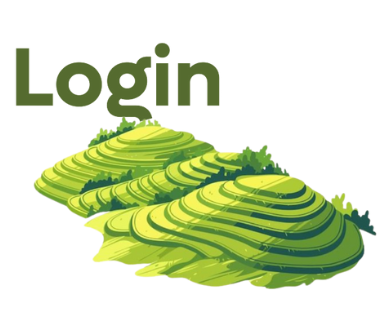
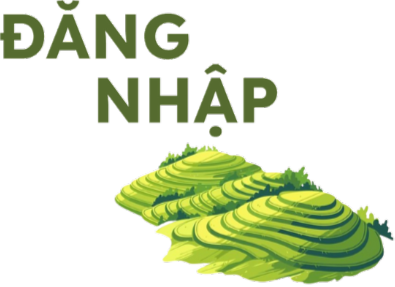
đẳng cấp

diff --git a/frontend/src/pages/Profile.jsx b/frontend/src/pages/Profile.jsx
@@ -2,6 +2,7 @@ import { useEffect, useState } from 'react'
 import { useNavigate } from 'react-router-dom'
 import { getProfile } from '../api/profile' 
 import BadgeCard from '../components/BadgeCard'
+import { baseURL } from '../api/apiClient'
 import { listBadgesForUser,listBadges } from '../api/reward'
 import editIcon from '../public/edit.png'
 import newEditIcon from '../public/new_edit.png'
@@ -11,7 +12,7 @@ import exitIcon from '../public/exit.png'
 import newExitIcon from '../public/new_exit.png'
 import viewAllIcon from '../public/view_all.png'
 import defaultAva from '../public/avt.png'
-import coverImg from '../public/ảnh bìa.jpg'
+import coverImg from '../public/ảnh bìa.png'
 import '../styles/Profile.css'
 
 export default function Profile() {
@@ -36,6 +37,7 @@ export default function Profile() {
 
     // fetch small preview of badges (sync with /reward/me)
     const [previewBadges, setPreviewBadges] = useState([])
+    const [selectedBadge, setSelectedBadge] = useState(null)
     useEffect(() => {
             listBadgesForUser().then(r => {
                 const payload = r.data || { versions: [] }
@@ -201,7 +203,7 @@ export default function Profile() {
                             </>
                         ) : (
                             previewBadges.map(b => (
-                                <BadgeCard key={b.id} badge={b} unlocked={b.unlocked} className="profile-badge-small" onClick={() => navigate('/badges')} />
+                                <BadgeCard key={b.id} badge={b} unlocked={b.unlocked} className="profile-badge-small" onClick={(badge) => setSelectedBadge(badge)} />
                             ))
                         )}
                     </div>
@@ -209,26 +211,18 @@ export default function Profile() {
 
             {/* */}
             {showExitConfirm && (
-                <div
-                    className="exit-confirm-overlay"
-                    onClick={() => setShowExitConfirm(false)}
-                    style={{ position: 'fixed', inset: 0, background: 'rgba(0,0,0,0.45)', display: 'flex', alignItems: 'center', justifyContent: 'center', zIndex: 10000 }}
-                >
-                    <div
-                        className="exit-confirm"
-                        onClick={(e) => e.stopPropagation()}
-                        style={{ background: '#EFF5D2', padding: 28, borderRadius: 30, width: '88%', maxWidth: 320, textAlign: 'center', boxShadow: '0 8px 30px rgba(0,0,0,0.25)' }}
-                    >
+                <div className="exit-confirm-overlay" onClick={() => setShowExitConfirm(false)}>
+                    <div className="exit-confirm" onClick={(e) => e.stopPropagation()}>
                         <button
                             type="button"
                             onClick={() => setShowExitConfirm(false)}
                             aria-label="Close"
-                            style={{ position: 'absolute', right: 22, top: 18, background: 'transparent', border: 'none', fontSize: 20, cursor: 'pointer' }}
+                            className="exit-close-btn"
                         >
                             ✕
                         </button>
-                        <h3 style={{ color: '#556B2F', fontSize: 20, margin: '12px 0 18px', fontWeight: 700 }}>Bạn có chắc chắn muốn đăng xuất không?</h3>
-                        <div style={{ display: 'flex', flexDirection: 'column', gap: 12, marginTop: 8 }}>
+                        <h3 className="exit-confirm-title">Bạn có chắc chắn muốn đăng xuất không?</h3>
+                        <div className="exit-confirm-actions">
                             <button
                                 type="button"
                                 onClick={handleLogout}
@@ -245,6 +239,40 @@ export default function Profile() {
                                 Quay lại
                             </button>
                         </div>
+                    </div>
+                </div>
+            )}
+            {/* Badge detail modal (centered, fixed) */}
+            {selectedBadge && (
+                <div
+                    className="badge-modal-overlay"
+                    onClick={() => setSelectedBadge(null)}
+                >
+                    <div
+                        className="badge-modal-content"
+                        onClick={(e) => e.stopPropagation()}
+                    >
+                        <img
+                            src={
+                                selectedBadge.image
+                                    ? (selectedBadge.image.startsWith('http') ? selectedBadge.image : `${baseURL}/badges/${selectedBadge.image}`)
+                                    : (selectedBadge.image_url || '')
+                            }
+                            alt={selectedBadge.name || selectedBadge.badge}
+                            className="badge-modal-img"
+                        />
+
+                        <h3 className="badge-modal-title">{selectedBadge.name || selectedBadge.badge}</h3>
+
+                        <p className="badge-modal-desc">{selectedBadge.description || 'Huy hiệu văn hóa đặc biệt'}</p>
+
+                        {selectedBadge.unlocked_at && (
+                            <small style={{ color: '#A9BC96' }}>
+                                Đạt được: {new Date(selectedBadge.unlocked_at).toLocaleDateString()}
+                            </small>
+                        )}
+
+                        <button className="badge-close-btn" onClick={() => setSelectedBadge(null)}>Đóng</button>
                     </div>
                 </div>
             )}

diff --git a/frontend/src/styles/Profile.css b/frontend/src/styles/Profile.css
@@ -159,7 +159,7 @@
   width: 100%;
   max-width: 720px;
   margin: 24px auto;
-  color: #556B2F;
+  color: #A9BC96;
 }
 
 .stats div {
@@ -187,7 +187,7 @@
   display: block;
   font-size: 24px;
   font-weight: 800;
-  color: #556B2F;
+  color: #789349;
   text-shadow: 0 1px 0 #C8D6A1;
   line-height: 1.2;
 }
@@ -196,8 +196,8 @@
 .stats p {
   font-size: 16px;
   font-weight: 700;
-  color: #BAD050; /* màu chữ chính (vàng xanh nhạt) */
-  -webkit-text-stroke: 0.8px #739042; /* viền xung quanh chữ */
+  color: #A9BC96; /* màu chữ chính (vàng xanh nhạt) */
+  -webkit-text-stroke: 0.8px #afc090; /* viền xung quanh chữ */
   text-stroke: 0.8px #556B2F; /* cho trình duyệt hỗ trợ */
   text-shadow: none; /* bỏ bóng cũ */
   margin-top: 4px;
@@ -303,7 +303,7 @@
 
 .info-label {
   font-size: 16px;
-  color: #A9BC96; 
+  color: #000000; 
   font-weight: 600;
   text-align: left;
 }
@@ -563,6 +563,117 @@
     0 14px 28px rgba(0,0,0,0.3),
     0 6px 12px rgba(85,107,47,0.08),
     inset 0 1px 0 rgba(255,255,255,0.4);
+}
+
+/* Centered exit confirm overlay (anchors to viewport) */
+.exit-confirm-overlay {
+  position: fixed;
+  inset: 0;
+  width: 100vw;
+  height: 100vh;
+  display: flex;
+  align-items: center;
+  justify-content: center;
+  background: rgba(0,0,0,0.45);
+  z-index: 20000;
+}
+
+.exit-confirm {
+  background: #f2f8e8;
+  padding: 28px;
+  border-radius: 24px;
+  width: min(92%, 360px);
+  max-width: 420px;
+  text-align: center;
+  box-shadow: 0 22px 50px rgba(0,0,0,0.35);
+  position: relative;
+  display: flex;
+  flex-direction: column;
+  gap: 12px;
+}
+
+.exit-close-btn {
+  position: absolute;
+  right: 14px;
+  top: 12px;
+  background: transparent;
+  border: none;
+  font-size: 20px;
+  cursor: pointer;
+}
+
+.exit-confirm-title {
+  color: #556B2F;
+  font-size: 20px;
+  margin: 6px 0 4px;
+  font-weight: 800;
+}
+
+.exit-confirm-actions {
+  display: flex;
+  flex-direction: column;
+  gap: 12px;
+  margin-top: 8px;
+}
+
+.exit-confirm .exit-logout-btn,
+.exit-confirm .exit-back-btn {
+  padding: 14px 28px;
+  border-radius: 28px;
+  width: 80%;
+  margin: 0 auto;
+  font-size: 18px;
+  box-shadow: 0 12px 28px rgba(0,0,0,0.18);
+}
+
+@media (max-width: 480px) {
+  .exit-confirm { padding: 20px; width: 92% }
+  .exit-confirm .exit-logout-btn,
+  .exit-confirm .exit-back-btn { width: 100% }
+}
+
+/* --- Badge modal: fixed, centered in viewport --- */
+.badge-modal-overlay {
+  position: fixed;
+  inset: 0;
+  width: 100vw;
+  height: 100vh;
+  display: flex;
+  align-items: center;
+  justify-content: center;
+  background: rgba(0,0,0,0.6);
+  z-index: 12000;
+  backdrop-filter: blur(3px);
+}
+
+.badge-modal-content {
+  background: #f1f7ec;
+  padding: 26px 20px;
+  border-radius: 20px;
+  width: min(92%, 360px);
+  max-width: 420px;
+  box-shadow: 0 10px 30px rgba(0,0,0,0.28);
+  display: flex;
+  flex-direction: column;
+  align-items: center;
+  gap: 12px;
+}
+
+.badge-modal-img {
+  width: 140px;
+  height: 140px;
+  object-fit: contain;
+  filter: drop-shadow(0 6px 14px rgba(0,0,0,0.2));
+  border-radius: 12px;
+}
+
+.badge-modal-title { color: #556B2F; font-size: 20px; font-weight: 800; margin: 0 }
+.badge-modal-desc { color: #6b7b4f; font-size: 15px; text-align: center }
+.badge-close-btn { margin-top: 6px; background: #556B2F; color: #fff; border: none; padding: 10px 20px; border-radius: 18px; cursor: pointer }
+
+@media (max-width: 480px) {
+  .badge-modal-img { width: 110px; height: 110px }
+  .badge-modal-content { padding: 18px 14px; width: 92% }
 }
 .edit-name { text-align:center; margin-top:10px; display:flex; flex-direction:column; gap:6px; align-items:center; color: #556B2F}
 .edit-name input:first-child{font-size:20px; font-weight:700; text-align:center; border:none; background:transparent; color: #556B2F}

diff --git a/frontend/src/pages/Onboarding.jsx b/frontend/src/pages/Onboarding.jsx
@@ -27,11 +27,11 @@ export default function Onboarding() {
       image: null // Bạn có thể thay bằng ảnh Logo hoặc ảnh bìa khác
     },
     // -------------------------------
-    { title: 'Phần thưởng từ việc', highlight: 'sống xanh', image: img1 },
-    { title: 'Check-in tại', highlight: 'điểm du lịch xanh', image: img2 },
-    { title: 'Ghi lại', highlight: 'câu chuyện của bạn', image: img3 },
-    { title: 'Cạnh tranh với', highlight: 'những người cùng đam mê', image: img4 },
-    { title: '', highlight: 'Bắt đầu ngay', image: overview1 }
+    { title: 'Du lịch xanh', highlight: 'quà theo nhanh', image: img1 },
+    { title: 'Check-in cực nhanh', highlight: 'tại điểm du lịch xanh', image: img2 },
+    { title: 'Biến khoảnh khắc', highlight: 'thành câu chuyện bất tận', image: img3 },
+    { title: 'So tài đỉnh cao', highlight: 'cùng hội đam mê', image: img4 },
+    { title: 'Không bây giờ thì bao giờ?', highlight: 'BẮT ĐẦU THÔI', image: overview1 }
   ]
 
   const [index, setIndex] = useState(0)

diff --git a/frontend/src/styles/Auth.css b/frontend/src/styles/Auth.css
@@ -63,9 +63,9 @@ overflow-x: hidden;
   position: absolute;
   /* moved up 20px and right 20px from the previous placement */
   top: 58px; /* 78 - 20 */
-  left: calc(50% + 90px); /* shifted right by additional 20px */
+  left: calc(50% + 40px); /* shifted right by additional 10px (moved left 10px) */
   transform: translateX(-50%);
-  width: 440px; /* doubled from 220px */
+  width: 520px; /* increased to make the login image larger */
   height: auto;
   z-index: 1001; /* above circle */
   pointer-events: none;
@@ -74,9 +74,9 @@ overflow-x: hidden;
 
 @media (max-width: 480px) {
   .auth-top .login-pic {
-    width: 280px; /* doubled from 140px */
+    width: 320px; /* increased for mobile */
     top: 42px; /* 62 - 20 */
-  left: calc(50% + 60px); /* shifted right by additional 20px */
+    left: calc(50% + 40px); /* moved left 10px on mobile */
   }
 }
 
@@ -241,9 +241,9 @@ overflow-x: hidden;
 @media (max-width: 480px) {
   .auth-circle {
    width: 500px;
-   height: 500px;
+   height: 600px;
    top: -340px;
-   padding-bottom: 80px;
+   padding-bottom: 90px;
   }
 
   .auth-title {

diff --git a/frontend/src/pages/EditProfile.jsx b/frontend/src/pages/EditProfile.jsx
@@ -4,7 +4,7 @@ import { getProfile, updateProfile, updateProfileMultipart } from '../api/profil
 import backIcon from '../public/back.png'
 import newBackIcon from '../public/new_back.png'
 import camIcon from '../public/camera.png'
-import coverImg from '../public/ảnh bìa.jpg'
+import coverImg from '../public/ảnh bìa.png'
 import defaultAva from '../public/avt.png'
 import showIcon from "../public/show.png"
 import dontEyeIcon from "../public/don't_eye.png"

diff --git a/frontend/src/pages/ViewProfile.jsx b/frontend/src/pages/ViewProfile.jsx
@@ -5,7 +5,7 @@ import '../styles/Profile.css'
 import defaultAva from '../public/avt.png'
 import backIcon from '../public/back.png'
 import newBackIcon from '../public/new_back.png'
-import coverImg from '../public/ảnh bìa.jpg'
+import coverImg from '../public/ảnh bìa.png'
 import BadgeCard from '../components/BadgeCard'
 import { listBadges } from '../api/reward'
 
